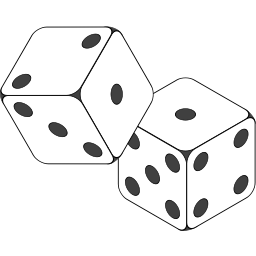
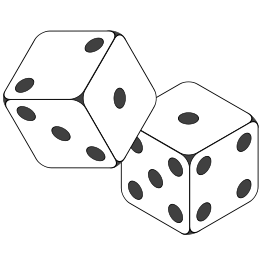
Fix dice
photoshop drop shadow

diff --git a/site/templates/index.html b/site/templates/index.html
@@ -25,14 +25,14 @@
 	</script>
 	<img src="../static/imgs/veridian-forest.png" id="bg" alt="">
 	<a href="https://github.com/ohnorobo/pokemon"><img style="position: fixed; top: 0; right: 0; border: 0; z-index: 101; width: 9%" src="https://camo.githubusercontent.com/365986a132ccd6a44c23a9169022c0b5c890c387/68747470733a2f2f73332e616d617a6f6e6177732e636f6d2f6769746875622f726962626f6e732f666f726b6d655f72696768745f7265645f6161303030302e706e67" alt="Fork us on GitHub" data-canonical-src="https://s3.amazonaws.com/github/ribbons/forkme_right_red_aa0000.png"></a>
-	<div id="banner"><h1><a href="./index.html">HackBeanpot's Pokédex!</a></h1></div>
+	<div id="banner"><h1><a href="http://www.frankenpokemon.me">HackBeanpot's Pokédex!</a></h1></div>
 	<div id="arrows">
-		<div id="left-arrow"><a href="./index.html"><img src="../static/imgs/arrow.png" alt="previous"></a></div>
-		<div id="right-arrow"><a href="./index.html"><img src="../static/imgs/arrow.png" alt="next"></a></div>
+		<div id="left-arrow"><a href="http://www.frankenpokemon.me"><img src="../static/imgs/arrow.png" alt="previous"></a></div>
+		<div id="right-arrow"><a href="http://www.frankenpokemon.me"><img src="../static/imgs/arrow.png" alt="next"></a></div>
 	</div>
 	<div id="pokedex-bg">
 		<div id="pokedex-wrapper">
-      <a href="./index.html"><img src="../static/imgs/dice.png" alt="Click for a new Random Pokémon"></a>
+      <a href="http://www.frankenpokemon.me"><img id="dice" src="../static/imgs/dice-shadow.png" width="150" height="150" alt="Click for a new Random Pokémon"></a>
 			<div class="pokename-border">
 				<div class="pokename" class="pixelfont">{{pokename}}</div>
 			</div>

diff --git a/site/static/css/main.css b/site/static/css/main.css
@@ -108,10 +108,13 @@ img {
 	margin-left: auto;
 	margin-right: auto;
 	margin-bottom: 100px;
-	padding-top: 180px;
+	padding-top: 10px;
 	height: 650px;
 	width: 650px;
 	border-radius: 5px;
+}
+
+#dice {
 }
 
 #pokedex-bg {
